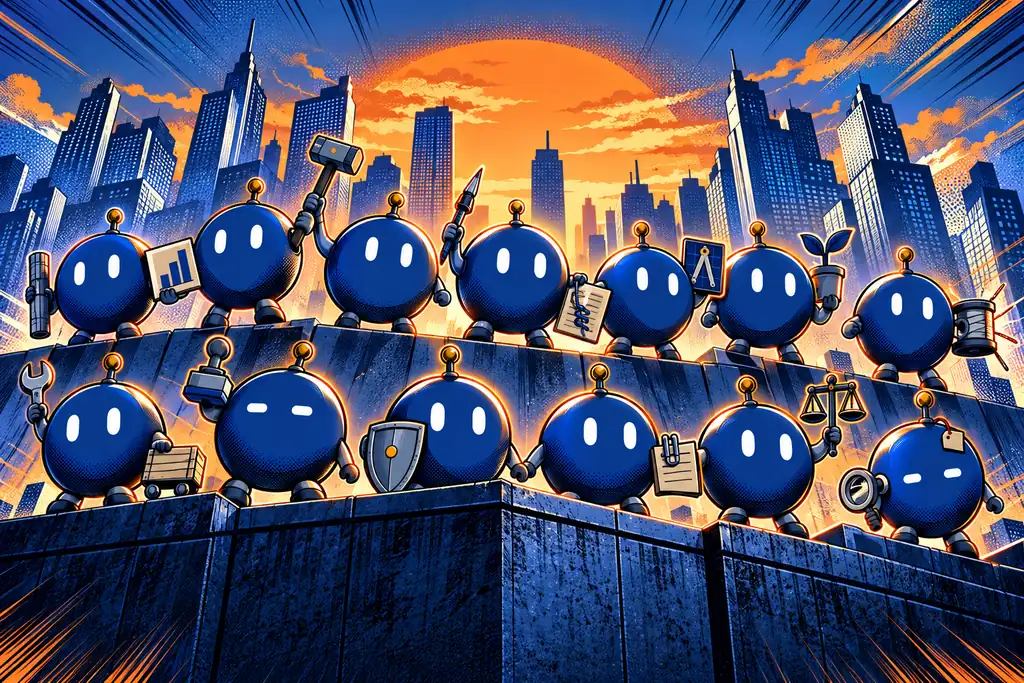
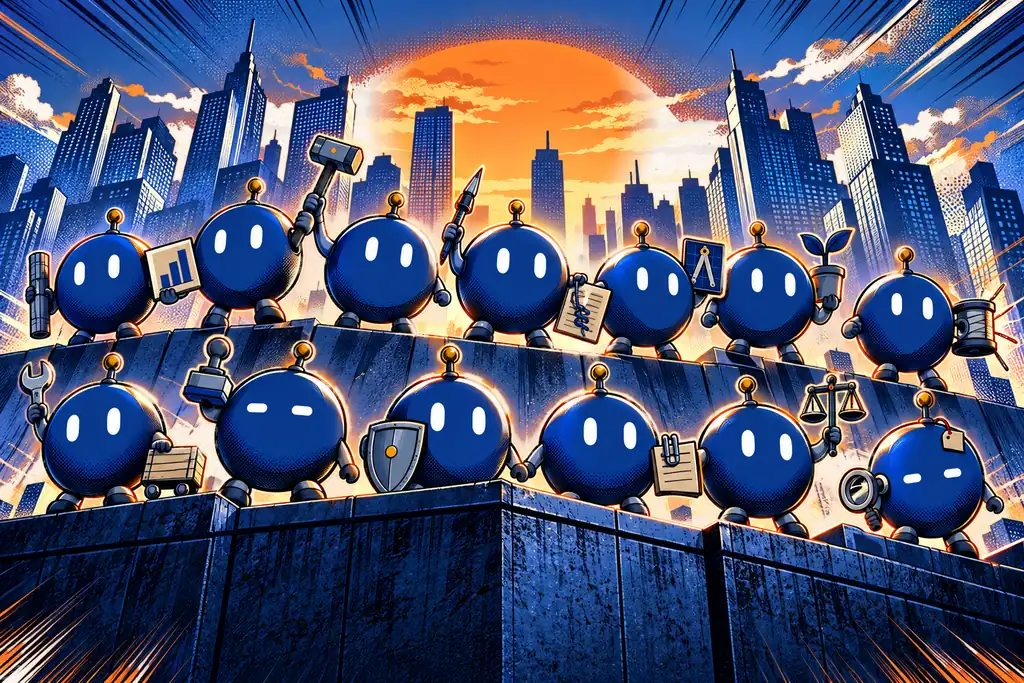
fix(front-door): comic art after independent review
- Drop five off-model storm panels flagged by the independent critic
  (r-analytics-1, r-engineer-2, r-lead-3, r-revenue-3, r-lead-1).
- Ship t3-team graded toward blue and white: orange falls from about 11%
  to about 6% of the rendered peak, white rises; the sunset disc and the
  canon brass antenna balls are kept.
- Add 1280 px .l.webp variants of the landscape panels for the storm's
  full-bleed pages on larger screens (manifest flag "l"); grid panels stay
  at 640 px and phones at 400 px.
- SOURCES.md records the review, the grade and the new release gates.

diff --git a/frontend/public/momentum/comic/SOURCES.md b/frontend/public/momentum/comic/SOURCES.md
@@ -29,6 +29,14 @@ superhero-studio opening, but it carries no franchise characters, names or marks
   a handwriting-like squiggle.
 - All five were regenerated with prompts for blank ruled pages and ball hands, and
   the replacements passed.
+- An independent review then dropped five more as off model: glass or glowing
+  eyes (`r-analytics-1`, `r-engineer-2`), angry eyes (`r-lead-3`), Momo faces in
+  the scale pans (`r-revenue-3`), and a lead that reads as attacking the crew
+  (`r-lead-1`). They are not shipped.
+- The peak splash `t3-team` ships graded toward blue and white
+  (`tools/grade.py`). Large orange sky and backlight regions become warm paper
+  white, and the sunset disc and the canon brass antenna balls are kept. Orange
+  drops from about 11% to about 6% of the rendered frame.
 - The reject list is in the build folder's README.
 
 **Files:**
@@ -37,6 +45,8 @@ superhero-studio opening, but it carries no franchise characters, names or marks
   1536 px for splashes (q56).
 - `<id>.m.webp` is the phone variant: 400 px for panels, 1024 px for splashes.
   The intro picks it at 704 px wide and under.
+- `<id>.l.webp` is the 1280 px variant (q52) of each landscape panel, for the
+  storm's full-bleed pages on larger screens. The manifest marks these `l`.
 - There's no EXIF or ICC metadata.
 - `manifest.json` gives each image's kind, source size and mean luminance. The
   intro deals panels by shape and orders the flip storm light to dark by that
@@ -44,5 +54,7 @@ superhero-studio opening, but it carries no franchise characters, names or marks
 
 **Build folder:** `Documents/Codex/2026-09-24/momo-marvel-intro/`. It has the
 source PNGs (`art/`), the prompts, `spend.csv`, the conversion script
-(`tools/webp.py`) and a flash check of the recorded intro (`tools/flashcheck.py`,
-worst window 1 flash per second).
+(`tools/webp.py`), the grade (`tools/grade.py`), and the release gates for the
+recorded intro: `tools/flashcheck.py` (WCAG 2.3.1 proxy over the whole screen and
+each third-by-third region, desktop and phone; worst region 3 flashes a second)
+and `tools/contrast.py` (settled copy at 4.5:1 or better from 360 to 1920 px).
